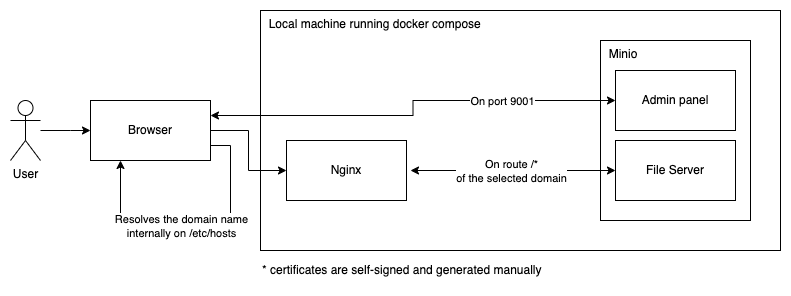
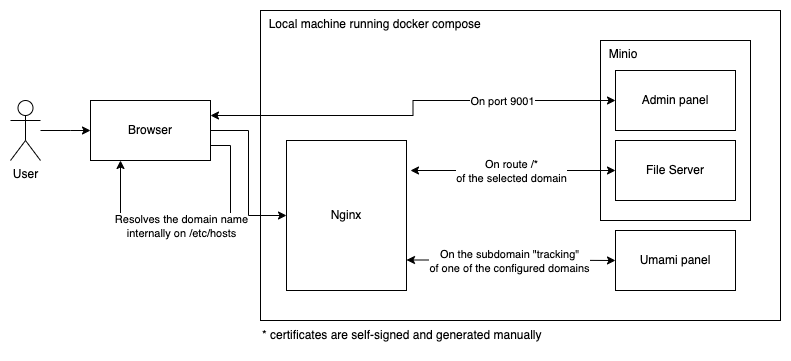
Adds Umami documentation

diff --git a/readme-assets/getting-started-remote-guide.md b/readme-assets/getting-started-remote-guide.md
@@ -7,7 +7,7 @@
     2. push to the VPS all the file from this repository that are needed
 4. SSH into the server and generate self-signed certificates
 5. Point your domain on your VPS IP address
-6. SSH into the server and customize the Nginx files to reflect your `WEBSITE_PRODUCTION_DOMAINS`, self-signed certificate files, and the Minio url that will point at your `WEBSITE_NAMES`
+6. SSH into the server and customize the Nginx files to reflect your `WEBSITE_PRODUCTION_DOMAINS`, self-signed certificate files, the Minio url that will point at your `WEBSITE_NAMES` and the Umami nginx configuration
 7. SSH into the server and spin up Nginx and Minio with docker compose locally
 8. Go on the Minio portal and create a bucket for each `WEBSITE_NAMES`, called `WEBSITE_NAME`, containing your website files
 9. Update Minio policy to give permission to everyone to see the files
@@ -49,7 +49,11 @@ sudo chmod +x ./self-signed/private/nginx-selfsigned.key
 
 If you did not buy a domain yet, you can buy it from https://www.namecheap.com/, https://www.godaddy.com/, https://domains.google/, etc...
 
-When you have one, set up your CDN to point at your VPS IP address.
+When you have one, set up your CDN to point at your VPS IP address for the domain you've chosen, for this guide it would be `website1prod.com`, `website2prod.com`.
+
+Umami will be just one instance that can serve all of your website. To work, it needs it's own subdomain on one of the domains you already own, so choose one of your domain that will be used for the `tracking` subdomain.
+
+In this case I've chosen the `website1prod.com` domain to have the `tracking` subdomain, so point `tracking.website1.prod` to your VPS IP address.
 
 ## Step 6
 
@@ -72,6 +76,10 @@ ssl_certificate_key /etc/ssl/private/nginx-selfsigned.key;
 ```
 
 The letsencrypt certificates are commented out, and it's ok like this for now.
+
+On the server, the file `nginx/conf/custom-conf/tracking.website1prod.com` already configure how to expose Umami on the `tracking` subdomain of the `website1dev.com` domain.
+
+Exactly like it happened for `nginx/conf/custom-conf/website1prod.com` and `nginx/conf/custom-conf/website2prod.com`, the letsencrypt certificates are commented out for now.
 
 ## Step 7
 
@@ -106,17 +114,17 @@ If your buckets are not called `website1` and `website2` remember to change the 
 
 You can generate (and renew) certificates with just one command line command.
 
-Remember to substitute `your@email.com` with your actual email and `website1prod.com`/`website2prod.com` with the domains that you want to request a certificate for.
+Remember to substitute `your@email.com` with your actual email and `website1prod.com`/`website2prod.com`/`tracking.website1prod.com` with the domains that you want to request a certificate for.
 
 ```
-ACME_EMAIL='--email your@email.com' ACME_DOMAINS='-d website1prod.com -d website2prod.com' docker compose -f docker-compose-certbot.yml up
+ACME_EMAIL='--email your@email.com' ACME_DOMAINS='-d website1prod.com -d website2prod.com -d tracking.website1prod.com' docker compose -f docker-compose-certbot.yml up
 ```
 
 ## Step 11
 
 Remember in step 6 that the Let's Encript certificates usage was commented out and was active the usage of self-signed certificates?
 
-Now it's time to swap those comment lines:
+Now it's time to swap those comment lines from the files `nginx/conf/custom-conf/website1prod.com`, `nginx/conf/custom-conf/website2prod.com`, and `nginx/conf/custom-conf/tracking.website1dev.com`:
 
 ```
 # self-signed certificates
@@ -133,6 +141,8 @@ ssl_certificate_key /etc/letsencrypt/live/certificates.com/privkey.pem;
 Well Done! 
 
 You should be able to hit https://website1prod.com and see your website in the website1 bucket. Likewise for website2!
+
+Now you are also able to go to https://tracking.website1prod.com and configure Umami (and your website code) like the guide says: https://umami.is/docs/login.
 
 ## Step 13
 

diff --git a/README.md b/README.md
@@ -4,6 +4,7 @@ This project demonstrate how to self-host multiple websites on a 5.99 euro/month
 
 It uses:
 - **Minio** (https://min.io/) to have a self-hosted alternative to AWS S3. Since it uses the same api as AWS S3, it is compatible with AWS CLI, more info [here](minio/notes.md)
+- **Umami** (https://umami.is/) for an open-source, cookieless alternative to Google Analytics
 - **Nginx** (https://www.nginx.com/) to handle caching and forwarding of traffic to Minio
 - **Let's encrypt** (https://letsencrypt.org/) to handle SSL certificates
 - **Docker** (https://www.docker.com/) as a containerization system
@@ -27,8 +28,8 @@ Since Webdock gives by default Ubuntu machines, this repo is optimized for Ubunt
 1. Decide your website names (referred as `WEBSITE_NAMES` in this guide), your development domains (referred as `WEBSITE_DEVELOPMENT_DOMAINS`)
 2. Install on your machine docker
 3. Generate self-signed certificates for local development
-4. Modify your `/etc/hosts` to put a redirect from your `WEBSITE_DEVELOPMENT_DOMAINS` to your localhost
-5. Customize the Nginx files to reflect your `WEBSITE_DEVELOPMENT_DOMAINS`, self-signed certificate files, and the Minio url that will point at your `WEBSITE_NAMES`
+4. Modify your /etc/hosts to put a redirect from your `WEBSITE_DEVELOPMENT_DOMAINS` to your localhost
+5. Customize the Nginx files to reflect your `WEBSITE_DEVELOPMENT_DOMAINS`, self-signed certificate files, the Minio url that will point at your `WEBSITE_NAMES` and the Umami nginx configuration
 6. Decide an user/password combination for Minio and write it in the docker compose file `./docker-compose.yml`
 7. Spin up Nginx and Minio with docker compose locally
 8. Go on the Minio portal and create a bucket for each `WEBSITE_NAMES`, called `WEBSITE_NAME`, containing your website files
@@ -46,7 +47,7 @@ For more detailed information look at [readme-assets/getting-started-local-guide
     2. push to the VPS all the file from this repository that are needed
 4. SSH into the server and generate self-signed certificates
 5. Point your domain on your VPS IP address
-6. SSH into the server and customize the Nginx files to reflect your `WEBSITE_PRODUCTION_DOMAINS`, self-signed certificate files, and the Minio url that will point at your `WEBSITE_NAMES`
+6. SSH into the server and customize the Nginx files to reflect your `WEBSITE_PRODUCTION_DOMAINS`, self-signed certificate files, the Minio url that will point at your `WEBSITE_NAMES` and the Umami nginx configuration
 7. SSH into the server and spin up Nginx and Minio with docker compose locally
 8. Go on the Minio portal and create a bucket for each `WEBSITE_NAMES`, called `WEBSITE_NAME`, containing your website files
 9. Update Minio policy to give permission to everyone to see the files
@@ -54,5 +55,6 @@ For more detailed information look at [readme-assets/getting-started-local-guide
 11. Modify the Nginx configuration to use the Let's Encrypt certificates
 12. Navigate with the browser to one of your `WEBSITE_PRODUCTION_DOMAINS` domain and you should see your website
 13. Set up a crontab to renew certificates
+14. (optional) Check your certificates
 
 For more detailed information look at [readme-assets/getting-started-remote-guide.md](readme-assets/getting-started-remote-guide.md)

diff --git a/readme-assets/getting-started-local-guide.md b/readme-assets/getting-started-local-guide.md
@@ -4,7 +4,7 @@
 2. Install on your machine docker
 3. Generate self-signed certificates for local development
 4. Modify your /etc/hosts to put a redirect from your `WEBSITE_DEVELOPMENT_DOMAINS` to your localhost
-5. Customize the Nginx files to reflect your `WEBSITE_DEVELOPMENT_DOMAINS`, self-signed certificate files, and the Minio url that will point at your `WEBSITE_NAMES`
+5. Customize the Nginx files to reflect your `WEBSITE_DEVELOPMENT_DOMAINS`, self-signed certificate files, the Minio url that will point at your `WEBSITE_NAMES` and the Umami nginx configuration
 6. Decide an user/password combination for Minio and write it in the docker compose file `./docker-compose.yml`
 7. Spin up Nginx and Minio with docker compose locally
 8. Go on the Minio portal and create a bucket for each `WEBSITE_NAMES`, called `WEBSITE_NAME`, containing your website files
@@ -46,9 +46,14 @@ and add at the end the lines referring to your domains (in this guide two)
 ```
 127.0.0.1 website1dev.com www.website1dev.com
 127.0.0.1 website2dev.com www.website2dev.com
+127.0.0.1 tracking.website1dev.com www.tracking.website1dev.com
 ```
 
 Doing this, when you'll search on your browser website1dev.com or www.website1dev.com, it will be resolved by your local machine to 127.0.0.1, that is localhost.
+
+Umami will be just one instance that can serve all of your website. To work, it needs it's own subdomain on one of the domains you already own, so choose one of your domain that will be used for the `tracking` subdomain.
+
+In this case I've chosen the website1dev.com domain to handle the tracking subdomain.
 
 ## Step 5
 
@@ -57,6 +62,8 @@ The file `nginx/conf/nginx.conf` is the default file that will get mounted and u
 The configurations for your websites goes under `nginx/conf/custom-conf`, where you'll find already there some real-world examples.
 
 The files `nginx/conf/custom-conf/website1dev.com` and `nginx/conf/custom-conf/website2dev.com` already represents two fully working configurations to expose `website1` and `website2`.
+
+The file `nginx/conf/custom-conf/tracking.website1dev.com` already configure how to expose Umami on the `tracking` subdomain of the `website1dev.com` domain
 
 ## Step 6
 
@@ -95,3 +102,5 @@ If your buckets are not called `website1` and `website2` remember to change the 
 Well Done! 
 
 You should be able to hit https://website1dev.com and see your website in the website1 bucket. Likewise for website2!
+
+Now you are also able to go to https://tracking.website1dev.com and configure Umami (and your website code) like the guide says: https://umami.is/docs/login.
